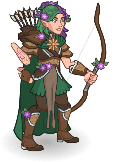
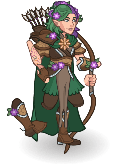
feat:补充首批立绘override

diff --git a/docs/research/data/skin-illustration-override-audit-research.md b/docs/research/data/skin-illustration-override-audit-research.md
@@ -15,16 +15,17 @@
 - **当前清单元数据本身不能直接自动告诉我们“哪张图一定错了”。**
 - `672 / 672` 个皮肤立绘当前都还是：
   - `sourceSlot = xl`
-  - `render.sequenceIndex = 0`
-  - `render.frameIndex = 0`
-- 这意味着：仅看 `champion-illustrations.json`，无法像“查非 0 frame”那样直接筛出错误项。
+  - 首轮抽样前全部是 `render.sequenceIndex = 0`
+  - 首轮抽样前全部是 `render.frameIndex = 0`
+- 这意味着：仅看最初的 `champion-illustrations.json`，无法像“查非 0 frame”那样直接筛出错误项。
 - 所以这轮抽样改用“**同英雄内部尺寸偏差 + 主题分类 + 已复核样例回避**”的方法，先筛出**最值得优先肉眼复核**的候选。
-- 当前建议的第一批复核顺序，优先看这 5 个**非显式主题异常**样本：
+- 第一轮已实际落地两条高置信 override：
+  - `368`：半精灵变异哨兵 -> `sequence 1 / frame 11`
+  - `520`：舞厅蔚 -> `sequence 1 / frame 7`
+- 这两条落地后，当前剩余最优先复核的**非显式主题异常**样本变成：
   1. `367`：半人马变异希契
   2. `452`：斑猫人变异珊蒂
-  3. `520`：舞厅蔚
-  4. `550`：泰尔那多贾希拉
-  5. `368`：半精灵变异哨兵
+  3. `550`：泰尔那多贾希拉
 - 第二批再看这 10 个**结构偏差明显、但主题上也可能天然偏大的样本**：
   - `362`、`290`、`515`、`473`、`111`、`390`、`123`、`333`、`133`、`327`
 - 明显偏小的 `毛绒 / 宝宝 / 玩偶` 类样本，本轮不建议优先写 override；它们更像主题造型本意，而不是 pose 选错。
@@ -118,9 +119,9 @@ node scripts/audit-idle-champions-illustration-overrides.mjs
 
 ## 4. 当前抽样结果总览
 
-本轮脚本产出的高优先级样本共 `20` 个，分为四类：
+在落地 `368` 与 `520` 之后，本轮脚本最新产出的高优先级样本共 `18` 个，分为四类：
 
-- `non-obvious`：`5`
+- `non-obvious`：`3`
   - 结构偏差明显，但名字上又不是明显的“毛绒 / 巨人 / 飞升”主题
   - **优先级最高**
 - `theme-expanded`：`11`
@@ -134,15 +135,45 @@ node scripts/audit-idle-champions-illustration-overrides.mjs
 
 ---
 
-## 5. 第一批建议先复核的 5 个 skin
+## 5. 当前已落地的第一批 override
 
-这 5 个是当前最值得先看的一批，因为它们：
+### 5.1 `368`：半精灵变异哨兵
+
+- 落地规则：
+  - `preferredSequenceIndexes = [1]`
+  - `preferredFrameIndexes = [11]`
+- 落地后结果：
+  - `render.sequenceIndex: 0 -> 1`
+  - `render.frameIndex: 0 -> 11`
+  - 尺寸从 `115 x 162` 调整为 `134 x 165`
+- 当前判断：
+  - 这条调整把成图从“同英雄皮肤组里明显偏窄”拉回到更接近哨兵组中位尺寸；
+  - 已写入 `scripts/data/champion-illustration-overrides.json`。
+
+### 5.2 `520`：舞厅蔚
+
+- 落地规则：
+  - `preferredSequenceIndexes = [1]`
+  - `preferredFrameIndexes = [7]`
+- 落地后结果：
+  - `render.sequenceIndex: 0 -> 1`
+  - `render.frameIndex: 0 -> 7`
+  - 尺寸从 `139 x 134` 调整为 `111 x 131`
+- 当前判断：
+  - 这条调整把成图从“横向展开偏大”拉回到更接近蔚皮肤组中位尺寸；
+  - 已写入 `scripts/data/champion-illustration-overrides.json`。
+
+---
+
+## 6. 当前最优先复核的 3 个 non-obvious skin
+
+这 3 个是当前最值得继续先看的一批，因为它们：
 
 - 在同英雄组内偏差明显；
 - 但名称上又不属于“天然应该缩小 / 放大”的明确主题；
 - 如果真要开始补第一批 override，应该先从这里确认。
 
-### 5.1 `367`：半人马变异希契
+### 6.1 `367`：半人马变异希契
 
 - 英雄：希契
 - 原因：
@@ -154,7 +185,7 @@ node scripts/audit-idle-champions-illustration-overrides.mjs
   - 主题名本身没有像 `毛绒 / 飞升 / 巨人` 那样明确解释这个偏差；
   - **建议排第一批。**
 
-### 5.2 `452`：斑猫人变异珊蒂
+### 6.2 `452`：斑猫人变异珊蒂
 
 - 英雄：珊蒂
 - 原因：
@@ -164,17 +195,7 @@ node scripts/audit-idle-champions-illustration-overrides.mjs
   - 宽度扩张明显，但又不是显式大型主题；
   - **建议第一批复核。**
 
-### 5.3 `520`：舞厅蔚
-
-- 英雄：蔚
-- 原因：
-  - 宽度是同英雄中位数的 `1.48x`
-  - 面积是同英雄中位数的 `1.57x`
-- 当前判断：
-  - 是这批里最“非主题驱动”的宽度异常之一；
-  - **建议第一批复核。**
-
-### 5.4 `550`：泰尔那多贾希拉
+### 6.3 `550`：泰尔那多贾希拉
 
 - 英雄：贾希拉
 - 原因：
@@ -184,19 +205,9 @@ node scripts/audit-idle-champions-illustration-overrides.mjs
   - 横向展开明显，但没有显式巨型主题解释；
   - **建议第一批复核。**
 
-### 5.5 `368`：半精灵变异哨兵
-
-- 英雄：哨兵
-- 原因：
-  - 宽度仅为同英雄中位数的 `0.71x`
-  - 面积仅为同英雄中位数的 `0.64x`
-- 当前判断：
-  - 与前四张相反，它是明显“偏窄 / 偏小”的非显式主题异常；
-  - **建议第一批复核。**
-
 ---
 
-## 6. 第二批建议复核的 10 个 skin
+## 7. 第二批建议复核的 10 个 skin
 
 这批结构偏差也很高，但它们的主题名本身就更像会带来自然尺寸变化，所以排在第二批：
 
@@ -220,7 +231,7 @@ node scripts/audit-idle-champions-illustration-overrides.mjs
 
 ---
 
-## 7. 当前不建议优先写 override 的样本
+## 8. 当前不建议优先写 override 的样本
 
 ### 7.1 明显缩小主题
 
@@ -248,11 +259,11 @@ node scripts/audit-idle-champions-illustration-overrides.mjs
 
 ---
 
-## 8. 推荐的下一步执行顺序
+## 9. 推荐的下一步执行顺序
 
 如果下一轮开始真的要录 override，建议按这个顺序推进：
 
-1. 先目检第一批 5 个：`367, 452, 520, 550, 368`
+1. 先继续目检剩余 3 个 non-obvious：`367, 452, 550`
 2. 只要其中有 1~2 个确认“确实应换 pose / frame”，就继续看第二批前 5 个：`362, 290, 515, 473, 111`
 3. 把确实需要调整的样本写入 `scripts/data/champion-illustration-overrides.json`
 4. 每录一批，都只做小范围重渲染，不要立刻全量重建
@@ -266,13 +277,13 @@ node scripts/sync-idle-champions-illustrations.mjs \
   --illustrationOverrides scripts/data/champion-illustration-overrides.json \
   --outputDir tmp/render-validation \
   --currentVersion v1 \
-  --skinIds 367,452,520,550,368 \
+  --skinIds 367,452,550 \
   --concurrency 2
 ```
 
 ---
 
-## 9. 当前记录关联文件
+## 10. 当前记录关联文件
 
 - `scripts/audit-idle-champions-illustration-overrides.mjs`
 - `scripts/data/champion-illustration-overrides.json`

diff --git a/docs/research/data/skin-illustration-render-pipeline-research.md b/docs/research/data/skin-illustration-render-pipeline-research.md
@@ -296,6 +296,12 @@ npm run test:component -- tests/component/illustrationsPage.test.tsx tests/compo
 
 ### 8.3 小范围样例渲染
 
+当前脚本已经支持在传入 `--skinIds` 或 `--championIds` 时做**增量合并输出**：
+
+- 不会再清空整个 `champion-illustrations/` 目录；
+- 会保留未选中的既有清单与图片；
+- `只传 --skinIds` 时，不会额外重建全部英雄本体立绘。
+
 ```bash
 node scripts/sync-idle-champions-illustrations.mjs \
   --input tmp/idle-champions-api/definitions-2026-04-16T03-48-29.427Z-latest-en.json \
